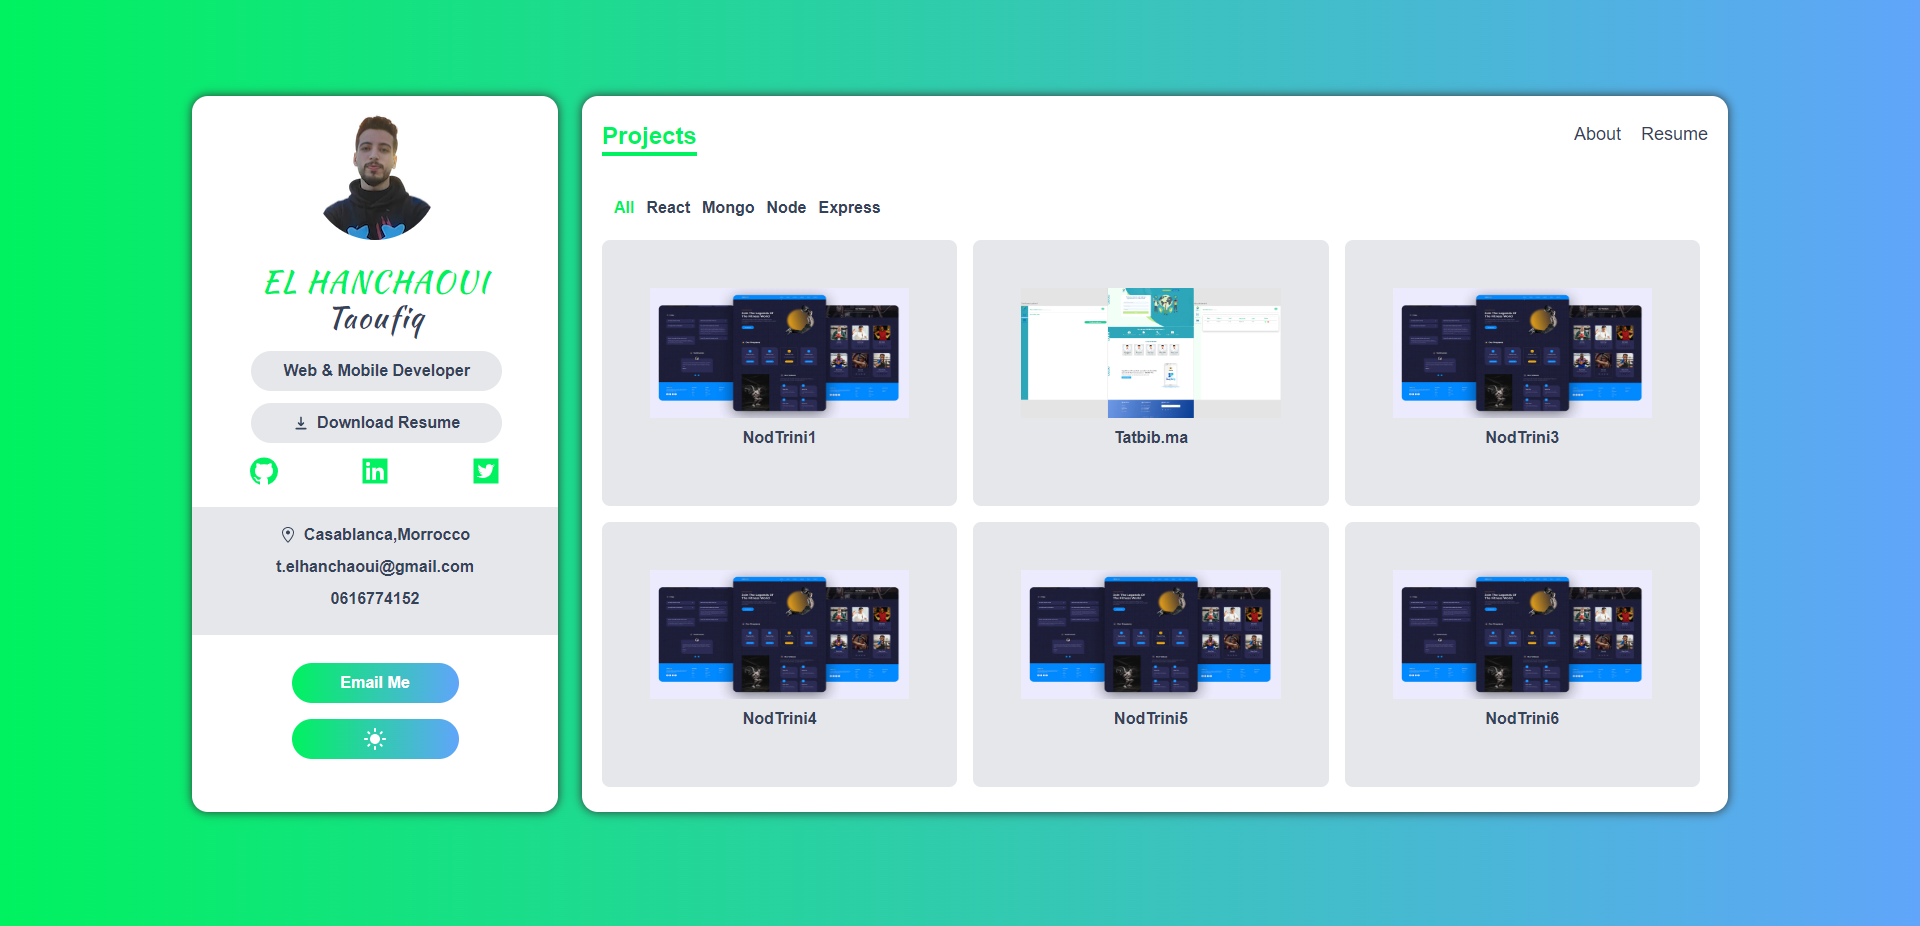
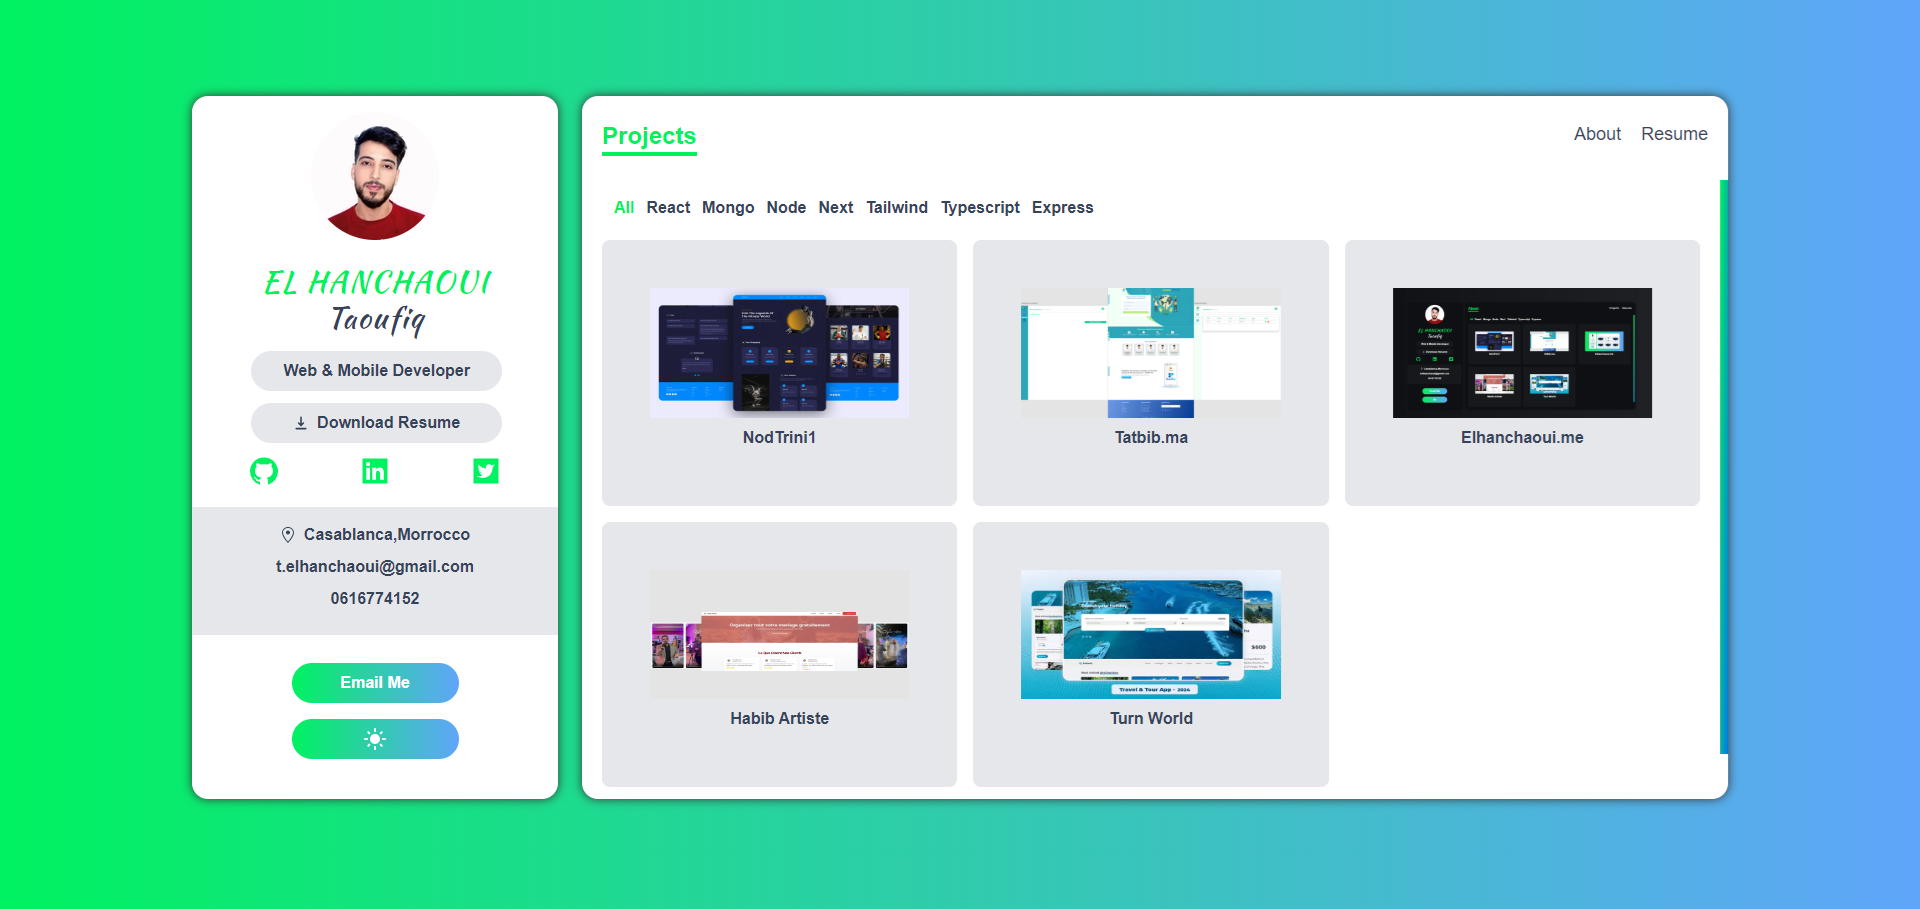
add new projects

diff --git a/data.ts b/data.ts
@@ -130,4 +130,24 @@ export const projects: IProject[] = [
     category: ["react", "next", "tailwind", "typescript"],
     key_techs: ["React", "Next.js", "TypeScript", "Tailwind"],
   },
+  {
+    id: 4,
+    name: "Habib Artiste",
+    description: "Habib Artiste est votre partenaire idéal pour transformer vos célébrations en souvenirs inoubliables. Spécialisés dans l'organisation de mariages, anniversaires et soirées privées, nous mettons à votre disposition notre expertise et notre créativité pour concevoir des événements sur mesure, adaptés à vos envies et à votre budget",
+    image_path: "/images/HabibDj.png",
+    deployed_url: "https://habib-artiste.vercel.app/",
+    github_url: "https://github.com/taoufiqq/habib-artiste",
+    category: ["react", "next", "tailwind", "typescript"],
+    key_techs: ["React", "Next.js", "TypeScript", "Tailwind"],
+  },
+  {
+    id: 5,
+    name: "Turn & tour",
+    description: "site en ligne dédiée à la planification, la réservation et l’organisation de voyages. Il offre une variété de services et d’informations pour aider les utilisateurs à explorer des destinations, comparer des options de transport et d’hébergement, et personnaliser leur expérience de voyage. ",
+    image_path: "/images/travel-and-tour.png",
+    deployed_url: "https://turn-tour.vercel.app/",
+    github_url: "https://github.com/taoufiqq/Turn-Tour",
+    category: ["react", "next"],
+    key_techs: ["React", "Next.js"],
+  },
 ];

diff --git a/components/Sidebar.tsx b/components/Sidebar.tsx
@@ -8,7 +8,7 @@ import {
 import { GoLocation } from "react-icons/go";
 import { HiDownload } from "react-icons/hi";
 import { useTheme } from "next-themes";
-import me from "../public/images/me.png";
+import me from "../public/images/me_2.jpg";
 import { MdDarkMode, MdLightMode } from "react-icons/md";
 const Sidebar = () => {
   const { theme, setTheme } = useTheme();
